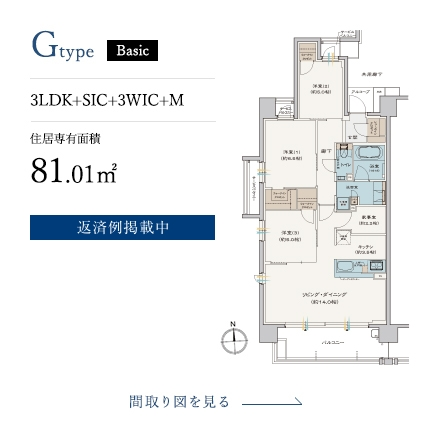
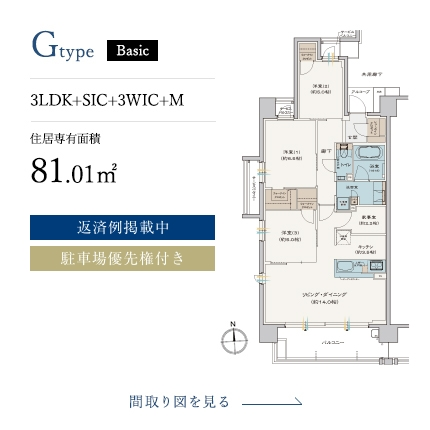
no message

Changed region(s): [[0.0605, 0.5744, 0.514, 0.6349]]

diff --git a/plan/plan_gg.html b/plan/plan_gg.html
@@ -88,7 +88,7 @@ j=d.createElement(s),dl=l!='dataLayer'?'&l='+l:'';j.async=true;j.src=
       <div class="flex">
         <section class="texts">
           <div class="box">
-<!--          <p class="topic">駐車場優先権付き</p>-->
+          <p class="topic">駐車場優先権付き</p>
           <h2 class="name">
             <span class="type"><strong>Gg</strong>type</span><span class="tag">Basic</span>
           </h2>
